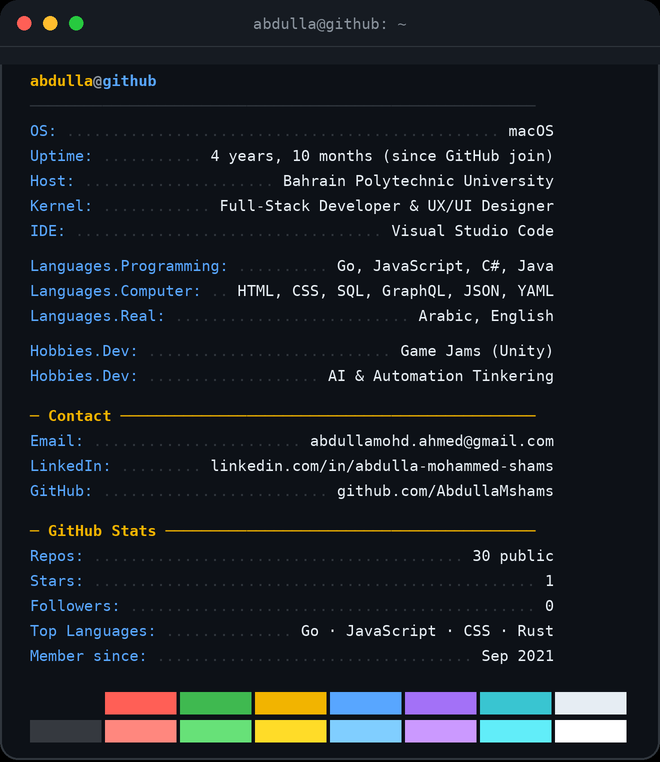
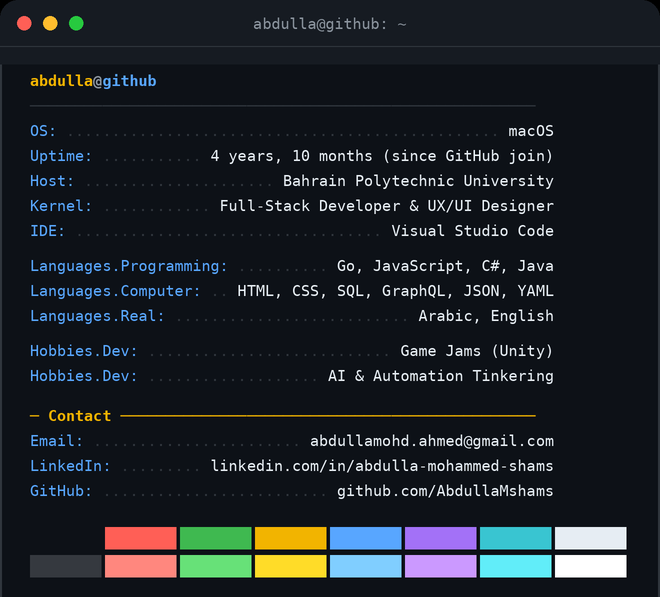
Make GitHub stats genuinely live: dynamic stats + top-langs cards from github-stats-extended, alongside streak card; trim static stats from terminal card

diff --git a/README.md b/README.md
@@ -154,9 +154,15 @@ A few things I've built recently — a sample, not the full list:
 
 <div align="center">
 
-### 📊 GitHub Stats
+### 📊 Live GitHub Stats
+
+<sub>Pulled fresh from the GitHub API on every page load — not a snapshot.</sub>
+
+<br><br>
 
 <img height="165" src="https://streak-stats.demolab.com?user=AbdullaMshams&theme=tokyonight&hide_border=true&background=0D1117&stroke=58A6FF&ring=58A6FF&fire=F2B400&currStreakLabel=58A6FF&disable_animations=true" />
+<img height="165" src="https://github-stats-extended.vercel.app/api?username=AbdullaMshams&hide_border=true&bg_color=0D1117&title_color=58A6FF&text_color=E6EDF3&icon_color=F2B400&ring_color=58A6FF&include_all_commits=true&count_private=false" />
+<img height="165" src="https://github-stats-extended.vercel.app/api/top-langs/?username=AbdullaMshams&hide_border=true&bg_color=0D1117&title_color=58A6FF&text_color=E6EDF3&layout=compact&langs_count=8" />
 
 </div>
 
